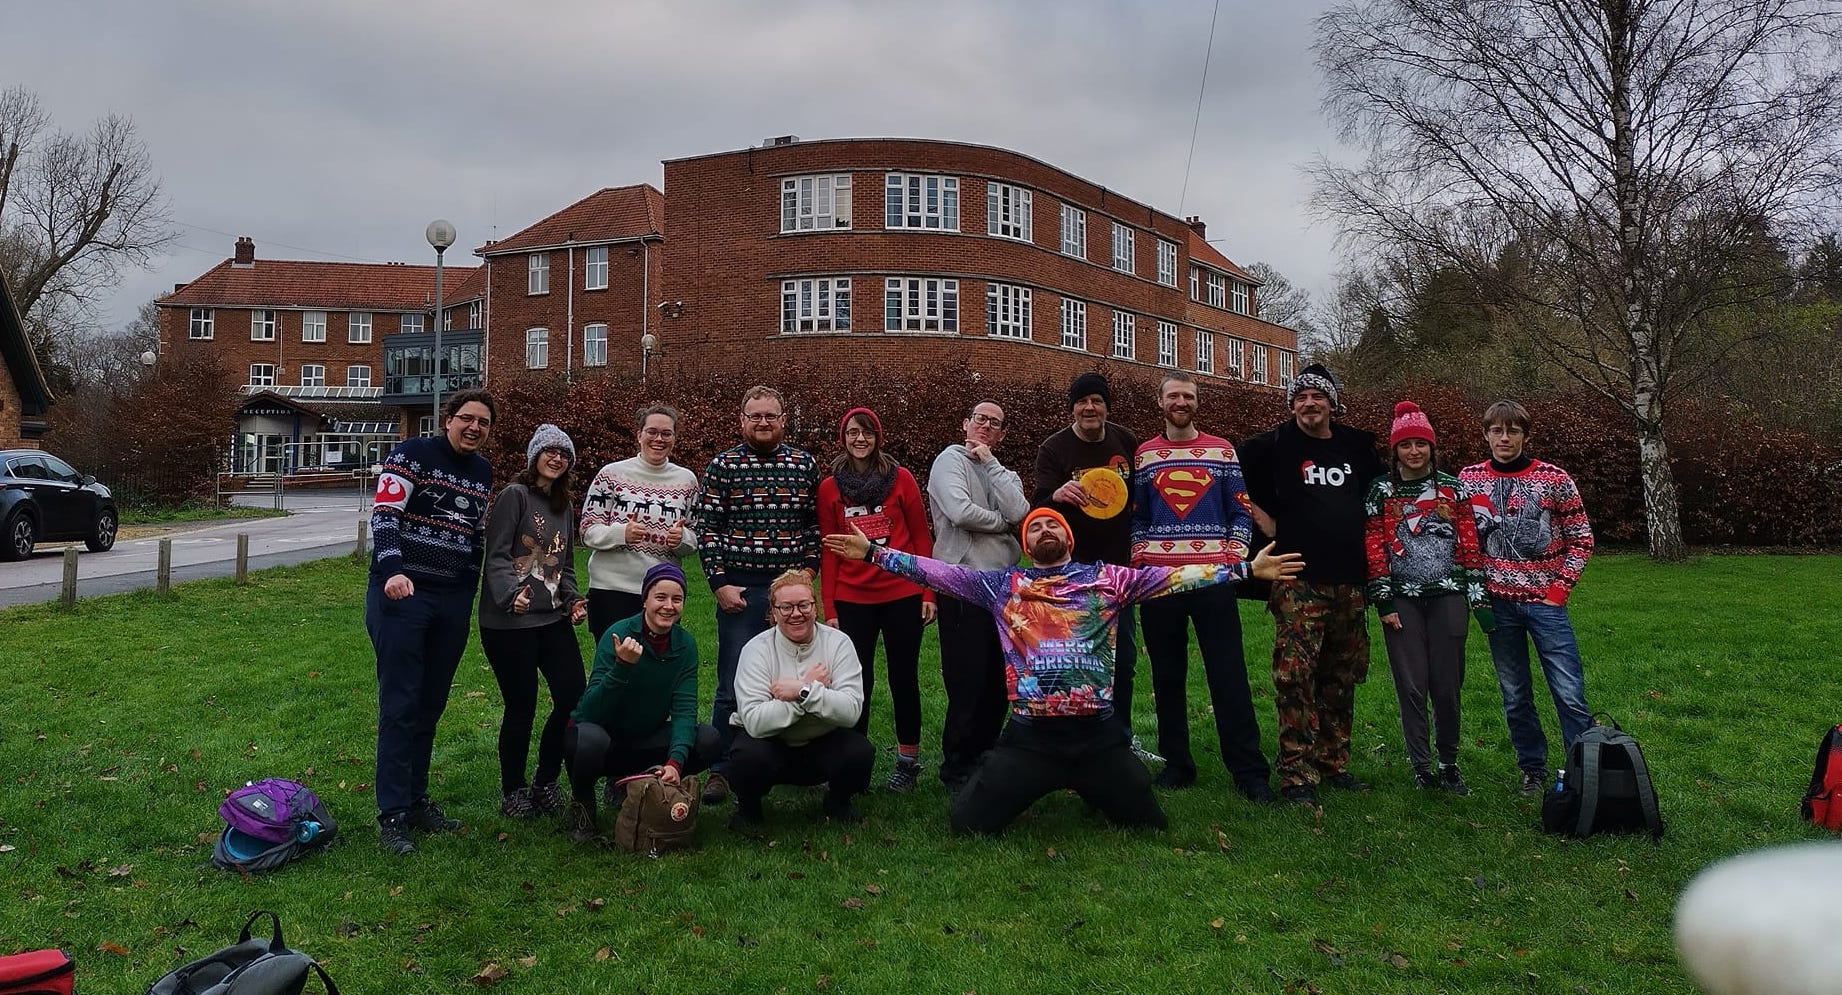
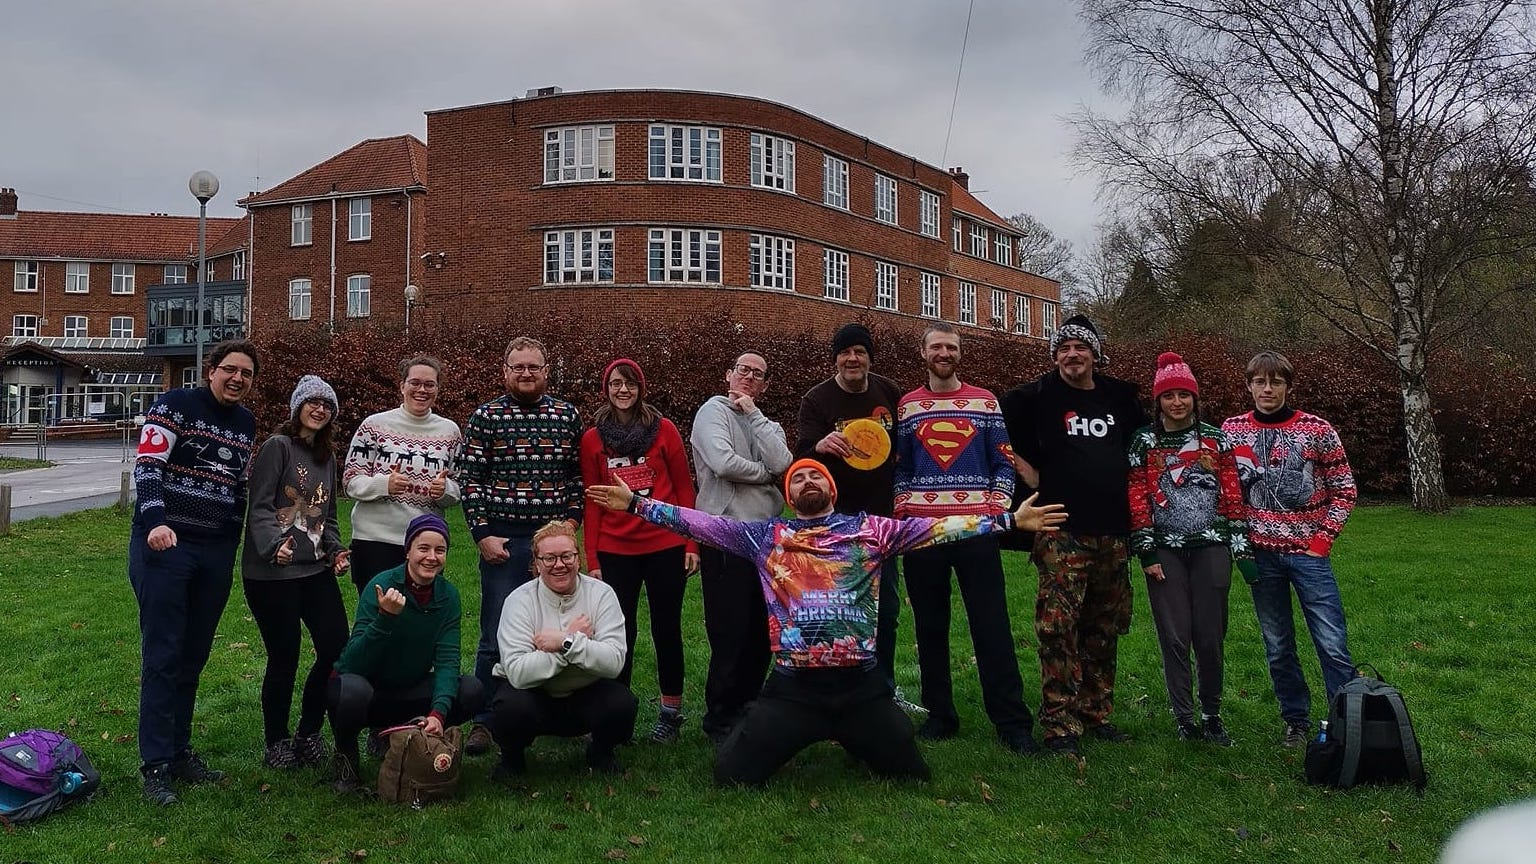
some new images on the home page

diff --git a/src/routes/index.svelte b/src/routes/index.svelte
@@ -168,11 +168,6 @@
 			>.
 		</p>
 	</section>
-	<img
-		class="jumper-round-img"
-		src="/christmas-round.jpg"
-		alt="Club members looking happy after a christmas jumper round"
-	/>
 	<section class="prose">
 		<h2 id="events">Events Calendar</h2>
 		<ul class="reset event-list">
@@ -217,6 +212,25 @@
 		<p><b>By Car:</b></p>
 		<p><b>By Bus:</b></p>
 	</section> -->
+	<div class="full-bleed home-images">
+		<img
+			src="/hole-8-willem.jpg"
+			alt="Male disc golf player under a branch framing the shot"
+		/>
+		<img
+			class="jumper-round-img"
+			src="/christmas-round.jpg"
+			alt="Club members looking happy after a christmas jumper round"
+		/>
+		<img
+			src="/hole-15-putts.jpg"
+			alt="Two players putting towards an elevated basket"
+		/>
+		<img
+			src="/hole-8-leia.jpg"
+			alt="Female disc golf player prparing to throw around a tree to the basket"
+		/>
+	</div>
 </main>
 
 <Footer />
@@ -251,16 +265,8 @@
 		object-fit: cover;
 		object-position: center;
 	}
-	main > img,
-	main > picture img {
-		display: block;
-		width: 100%;
-		max-width: 45rem;
-		margin-inline: auto;
-	}
-
 	main > * + * {
-		margin-block: 2rem;
+		margin-block-start: 2rem;
 	}
 
 	h2 {
@@ -312,5 +318,11 @@
 	}
 	.event-list li p {
 		margin-block-end: 0;
+	}
+	.home-images {
+		display: grid;
+		grid-template-columns: repeat(auto-fit, minmax(30rem, 1fr));
+		gap: 1rem;
+		justify-items: center;
 	}
 </style>

diff --git a/static/global.css b/static/global.css
@@ -59,11 +59,20 @@ main {
 
 .container {
 	margin: 0 auto;
-	max-width: 62rem;
+	display: grid;
+	grid-template-columns: 1fr min(60rem, 100%) 1fr;
+}
+
+.container > * {
+  grid-column: 2;
+}
+
+.container > .full-bleed {
+  width: 100%;
+  grid-column: 1 / 4;
 }
 
 .prose {
-	margin: 0 auto;
 	max-width: 80ch;
 }
 
